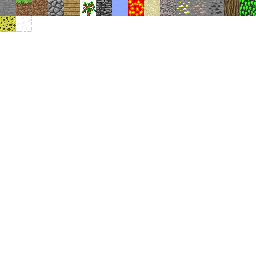
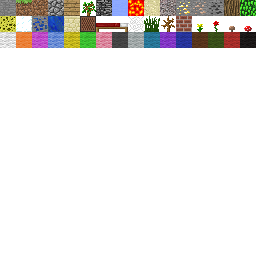
Add more blocks

Changed region(s): [[0.0, 0.0625, 1.0, 0.1875]]

diff --git a/core/src/ru/deadsoftware/cavecraft/game/GameRenderer.java b/core/src/ru/deadsoftware/cavecraft/game/GameRenderer.java
@@ -28,13 +28,18 @@ public class GameRenderer extends Renderer {
         if (maxY>gameProc.world.getHeight()) maxY = gameProc.world.getHeight();
         for (int y=minY; y<maxY; y++) {
             for (int x=minX; x<maxX; x++) {
-                if (gameProc.world.getForeMap(x,y)>0){
-                } else if (gameProc.world.getBackMap(x,y)>0) {
+                if ((gameProc.world.getForeMap(x,y)==0 || Items.BLOCKS.getValueAt(gameProc.world.getForeMap(x,y)).transparent)
+                        && gameProc.world.getBackMap(x,y)>0) {
                     spriteBatch.draw(
-                            Items.BLOCKS.getValueAt(gameProc.world.getBackMap(x,y)).getTexture(),
+                            Assets.blockTextures[Items.BLOCKS.getValueAt(gameProc.world.getBackMap(x,y)).getTexture()],
                             x * 16 - camera.position.x,y * 16 - camera.position.y);
                     Assets.shade.setPosition(x * 16 - camera.position.x,y * 16 - camera.position.y);
                     Assets.shade.draw(spriteBatch);
+                }
+                if (gameProc.world.getForeMap(x,y)>0 && Items.BLOCKS.getValueAt(gameProc.world.getForeMap(x,y)).background) {
+                    spriteBatch.draw(
+                            Assets.blockTextures[Items.BLOCKS.getValueAt(gameProc.world.getForeMap(x,y)).getTexture()],
+                            x * 16 - camera.position.x,y * 16 - camera.position.y);
                 }
             }
         }
@@ -51,7 +56,7 @@ public class GameRenderer extends Renderer {
             for (int x=minX; x<maxX; x++) {
                 if (gameProc.world.getForeMap(x,y)>0) {
                     spriteBatch.draw(
-                            Items.BLOCKS.getValueAt(gameProc.world.getForeMap(x,y)).getTexture(),
+                            Assets.blockTextures[Items.BLOCKS.getValueAt(gameProc.world.getForeMap(x,y)).getTexture()],
                             x * 16 - camera.position.x,y * 16 - camera.position.y);
                 }
             }
@@ -119,13 +124,13 @@ public class GameRenderer extends Renderer {
                 y+18+(gameProc.creativeScroll*(72/(gameProc.maxCreativeScroll+1))));
         for (int i=gameProc.creativeScroll*40; i<(gameProc.creativeScroll+1)*40; i++) {
             if (i>0 && i<Items.BLOCKS.size)
-                spriteBatch.draw(Items.BLOCKS.getValueAt(i).getTexture(),
+                spriteBatch.draw(Assets.blockTextures[Items.BLOCKS.getValueAt(i).getTexture()],
                         x+8+((i-gameProc.creativeScroll*40)%8)*18,
                         y+18+((i-gameProc.creativeScroll*40)/8)*18);
         }
         for (int i=0; i<9; i++) {
             if (gameProc.player.inventory[i]>0)
-                spriteBatch.draw(Items.BLOCKS.getValueAt(gameProc.player.inventory[i]).getTexture(),
+                spriteBatch.draw(Assets.blockTextures[Items.BLOCKS.getValueAt(gameProc.player.inventory[i]).getTexture()],
                         x+8+i*18, y+Assets.creativeInv.getRegionHeight()-24);
         }
     }
@@ -140,7 +145,7 @@ public class GameRenderer extends Renderer {
         spriteBatch.draw(Assets.invBar, camera.viewportWidth/2 - Assets.invBar.getRegionWidth()/2, 0);
         for (int i=0; i<9; i++) {
             if (gameProc.player.inventory[i]>0) {
-                spriteBatch.draw(Items.BLOCKS.getValueAt(gameProc.player.inventory[i]).getTexture(),
+                spriteBatch.draw(Assets.blockTextures[Items.BLOCKS.getValueAt(gameProc.player.inventory[i]).getTexture()],
                         camera.viewportWidth/2 - Assets.invBar.getRegionWidth()/2+3+i*20,
                         3);
             }

diff --git a/core/src/ru/deadsoftware/cavecraft/game/Items.java b/core/src/ru/deadsoftware/cavecraft/game/Items.java
@@ -10,24 +10,38 @@ public class Items {
 
     public static void loadBlocks() {
         BLOCKS.put("none", null);
-        BLOCKS.put("stone", new Block(0,0,16,16, Assets.blockTextures[0]));
-        BLOCKS.put("grass", new Block(0,0,16,16,Assets.blockTextures[1]));
-        BLOCKS.put("dirt", new Block(0,0,16,16,Assets.blockTextures[2]));
-        BLOCKS.put("cobblestone", new Block(0,0,16,16,Assets.blockTextures[3]));
-        BLOCKS.put("planks", new Block(0,0,16,16,Assets.blockTextures[4]));
-        BLOCKS.put("sapling", new Block(0,0,16,16,Assets.blockTextures[5],false,true));
-        BLOCKS.put("bedrock", new Block(0,0,16,16,Assets.blockTextures[6]));
-        BLOCKS.put("water", new Block(0,0,16,16,Assets.blockTextures[7],false,true));
-        BLOCKS.put("lava", new Block(0,0,16,16,Assets.blockTextures[8],false,true));
-        BLOCKS.put("sand", new Block(0,0,16,16,Assets.blockTextures[9]));
-        BLOCKS.put("gravel", new Block(0,0,16,16,Assets.blockTextures[10]));
-        BLOCKS.put("gold_ore", new Block(0,0,16,16,Assets.blockTextures[11]));
-        BLOCKS.put("iron_ore", new Block(0,0,16,16,Assets.blockTextures[12]));
-        BLOCKS.put("coal_ore", new Block(0,0,16,16,Assets.blockTextures[13]));
-        BLOCKS.put("log", new Block(0,0,16,16,Assets.blockTextures[14]));
-        BLOCKS.put("leaves", new Block(0,0,16,16,Assets.blockTextures[15]));
-        BLOCKS.put("sponge", new Block(0,0,16,16,Assets.blockTextures[16]));
-        BLOCKS.put("glass", new Block(0,0,16,16,Assets.blockTextures[17]));
+        BLOCKS.put("stone", new Block(0));
+        BLOCKS.put("grass", new Block(1));
+        BLOCKS.put("dirt", new Block(2));
+        BLOCKS.put("cobblestone", new Block(3));
+        BLOCKS.put("planks", new Block(4));
+        BLOCKS.put("sapling", new Block(5,false,false,true));
+        BLOCKS.put("bedrock", new Block(6));
+        BLOCKS.put("water", new Block(7,false,false,true));
+        BLOCKS.put("lava", new Block(8,false,false,false));
+        BLOCKS.put("sand", new Block(9));
+        BLOCKS.put("gravel", new Block(10));
+        BLOCKS.put("gold_ore", new Block(11));
+        BLOCKS.put("iron_ore", new Block(12));
+        BLOCKS.put("coal_ore", new Block(13));
+        BLOCKS.put("log", new Block(14));
+        BLOCKS.put("leaves", new Block(15));
+        BLOCKS.put("sponge", new Block(16));
+        BLOCKS.put("glass", new Block(17,true,false,true));
+        BLOCKS.put("lapis_ore", new Block(18));
+        BLOCKS.put("lapis_block", new Block(19));
+        BLOCKS.put("sandstone", new Block(20));
+        BLOCKS.put("noteblock", new Block(21));
+        BLOCKS.put("bed", new Block(0,8,16,8,22,false,true,true));
+        BLOCKS.put("cobweb", new Block(24,false,false,true));
+        BLOCKS.put("tallgrass", new Block(25,false,false,true));
+        BLOCKS.put("deadbush", new Block(26,false,false,true));
+        BLOCKS.put("brick_block", new Block(27));
+        BLOCKS.put("dandelion", new Block(28,false,false,true));
+        BLOCKS.put("rose", new Block(29,false,false,true));
+        BLOCKS.put("brown_mushroom", new Block(30,false,false,true));
+        BLOCKS.put("red_mushroom", new Block(31,false,false,true));
+        BLOCKS.put("wool", new Block(32,false,true,false));
     }
 
     public static void load() {

diff --git a/core/src/ru/deadsoftware/cavecraft/game/objects/Block.java b/core/src/ru/deadsoftware/cavecraft/game/objects/Block.java
@@ -6,25 +6,30 @@ import com.badlogic.gdx.math.Rectangle;
 public class Block {
 
     private int x,y,w,h;
-    private TextureRegion texture;
+    private int texture;
 
-    public boolean collision, foreground;
+    public boolean collision, background, transparent;
 
-    public Block(int x, int y, int w, int h, TextureRegion texture) {
-        this(x,y,w,h,texture, true, false);
+    public Block(int texture) {
+        this(0,0,16,16,texture, true, false, false);
     }
 
-    public Block(int x, int y, int w, int h, TextureRegion texture, boolean collision, boolean foreground) {
+    public Block(int texture, boolean collision, boolean background, boolean transparent) {
+        this(0,0,16,16,texture, collision, background, transparent);
+    }
+
+    public Block(int x, int y, int w, int h, int texture, boolean collision, boolean background, boolean transparent) {
         this.x = x;
         this.y = y;
         this.w = w;
         this.h = h;
         this.texture = texture;
         this.collision = collision;
-        this.foreground = foreground;
+        this.background = background;
+        this.transparent = transparent;
     }
 
-    public TextureRegion getTexture() {
+    public int getTexture() {
         return texture;
     }
 

diff --git a/core/src/ru/deadsoftware/cavecraft/menu/MenuRenderer.java b/core/src/ru/deadsoftware/cavecraft/menu/MenuRenderer.java
@@ -61,7 +61,7 @@ public class MenuRenderer extends Renderer {
         spriteBatch.begin();
         for (int x=0; x<=getWidth()/16; x++)
             for (int y=0; y<=getHeight()/16; y++) {
-                spriteBatch.draw(Items.BLOCKS.get("dirt").getTexture(), x * 16, y * 16);
+                spriteBatch.draw(Assets.blockTextures[Items.BLOCKS.get("dirt").getTexture()], x * 16, y * 16);
                 spriteBatch.draw(Assets.shade,x*16,y*16);
             }
         spriteBatch.draw(Assets.gameLogo, getWidth()/2-Assets.gameLogo.getWidth()/2, 0);

diff --git a/core/src/ru/deadsoftware/cavecraft/game/GameWorld.java b/core/src/ru/deadsoftware/cavecraft/game/GameWorld.java
@@ -77,7 +77,7 @@ public class GameWorld {
     }
 
     public void placeToBackground(int x, int y, int value) {
-        if (value==0 || (getBackMap(x,y) == 0 && !Items.BLOCKS.getValueAt(value).foreground)) {
+        if (value==0 || (getBackMap(x,y) == 0 && !Items.BLOCKS.getValueAt(value).background)) {
             setBackMap(x,y,value);
         }
     }

diff --git a/core/src/ru/deadsoftware/cavecraft/misc/Assets.java b/core/src/ru/deadsoftware/cavecraft/misc/Assets.java
@@ -10,7 +10,7 @@ import ru.deadsoftware.cavecraft.CaveGame;
 
 public class Assets {
 
-    public static final int BLOCK_TEXTURES = 18;
+    public static final int BLOCK_TEXTURES = 47;
 
     private static GlyphLayout layout;
 
